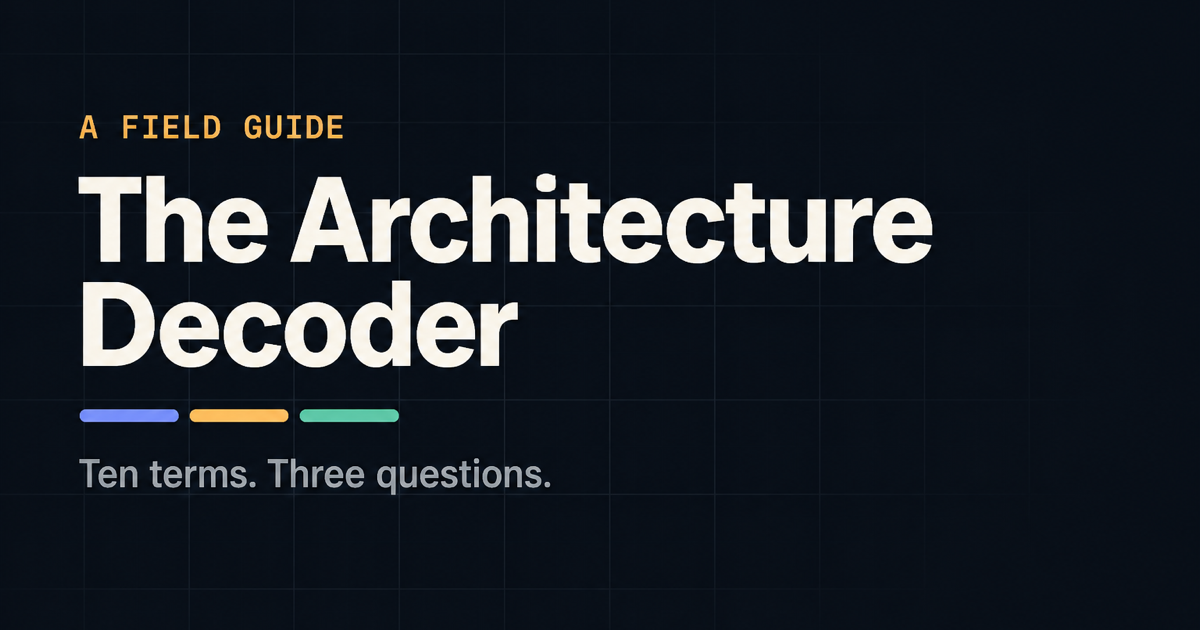
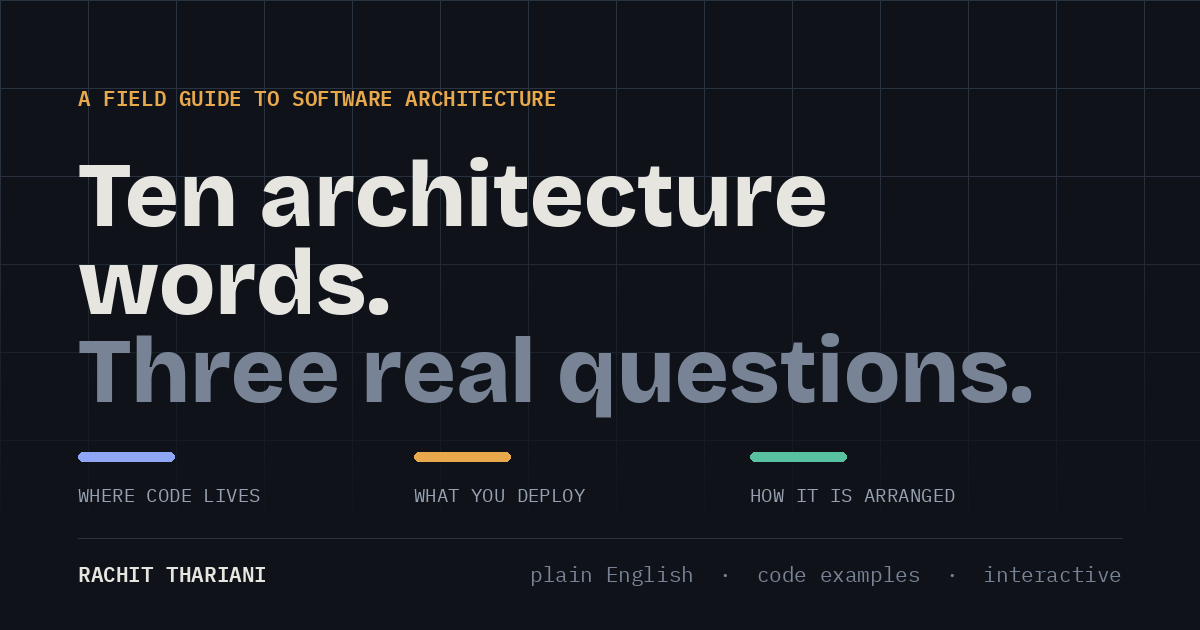
Architecture Decoder: added code examples and copy buttons

diff --git a/index.html b/index.html
@@ -4,12 +4,25 @@
 <meta charset="utf-8">
 <meta name="viewport" content="width=device-width, initial-scale=1">
 <title>The Architecture Decoder: ten software architecture terms, three real questions</title>
-<meta name="description" content="Monorepo, modular monolith, micro-frontends, hexagonal, clean, onion, event-driven, pipeline, layered, distributed. A software architecture field guide that shows these ten terms answer three unrelated questions, with plain-language explanations, three depth levels and worked code examples.">
+<meta name="description" content="Monorepo, modular monolith, micro-frontends, hexagonal, clean, onion, event-driven, pipeline, layered, distributed. A software architecture field guide that shows these ten terms answer three unrelated questions, with plain-language explanations, three depth levels and code examples.">
 <meta name="theme-color" content="#0F1319">
 <meta property="og:type" content="article">
 <meta property="og:title" content="The Architecture Decoder: ten software architecture terms, three real questions">
 <meta property="og:description" content="Software architecture terms are not ten competing options. They answer three unrelated questions. Learn which question each word belongs to and the confusion stops.">
+<meta property="og:image" content="architecture-decoder-card.png">
+<meta property="og:image:width" content="1200">
+<meta property="og:image:height" content="630">
+<meta property="og:image:alt" content="Ten architecture words. Three real questions.">
+<meta name="twitter:image" content="architecture-decoder-card.png">
 <meta name="twitter:card" content="summary_large_image">
+<script type="application/ld+json">
+{"@context":"https://schema.org","@type":"TechArticle",
+ "headline":"The Architecture Decoder: ten software architecture terms, three real questions",
+ "description":"A field guide showing that ten commonly confused software architecture terms answer three unrelated questions.",
+ "author":{"@type":"Person","name":"Rachit Thariani","sameAs":"https://www.linkedin.com/in/rachit-thariani/"},
+ "datePublished":"2026-08-18","dateModified":"2026-08-18",
+ "inLanguage":"en","image":"architecture-decoder-card.png"}
+</script>
 <meta name="twitter:title" content="The Architecture Decoder">
 <meta name="twitter:description" content="Ten software architecture terms. Three real questions. A field guide with ELI5 explanations and three depth levels per concept.">
 <link rel="dns-prefetch" href="https://fonts.gstatic.com">
@@ -280,6 +293,71 @@ footer{padding:46px 0 64px;color:var(--dim2);font-family:var(--mono);font-size:1
 #totop:hover{color:var(--text);border-color:var(--a2);background:color-mix(in srgb,var(--a2) 14%,var(--ink3))}
 #totop svg{width:17px;height:17px;stroke:currentColor;stroke-width:2;fill:none;stroke-linecap:round;stroke-linejoin:round}
 @media(max-width:560px){#totop{right:14px;bottom:14px;width:40px;height:40px}}
+
+/* reading time */
+.rtime{font-family:var(--mono);font-size:10px;letter-spacing:.13em;text-transform:uppercase;color:var(--dim2);margin-left:auto}
+@media(max-width:520px){.rtime{margin-left:0;width:100%}}
+
+/* copy buttons */
+.prewrap{position:relative}
+.prewrap>pre{margin:15px 0}
+.cpy{position:absolute;top:24px;right:9px;z-index:2;background:var(--ink3);border:1px solid var(--line2);
+  color:var(--dim2);font-family:var(--mono);font-size:10px;letter-spacing:.07em;text-transform:uppercase;
+  padding:5px 9px;border-radius:5px;cursor:pointer;opacity:0;transition:.16s}
+.prewrap:hover .cpy,.cpy:focus{opacity:1}
+.cpy:hover{color:var(--text);border-color:var(--dim2)}
+.cpy.done{color:var(--a3);border-color:var(--a3);opacity:1}
+@media(hover:none){.cpy{opacity:1}}
+
+/* mobile navigation */
+#navbtn{display:none;background:var(--ink3);border:1px solid var(--line2);color:var(--dim);
+  width:34px;height:34px;border-radius:8px;cursor:pointer;place-items:center;flex:0 0 auto}
+#navbtn svg{width:16px;height:16px;stroke:currentColor;stroke-width:2;fill:none;stroke-linecap:round}
+#navbtn:hover{color:var(--text)}
+#scrim{position:fixed;inset:0;background:rgba(8,10,14,.72);z-index:90;opacity:0;visibility:hidden;
+  transition:opacity .22s,visibility .22s;backdrop-filter:blur(3px)}
+#scrim.on{opacity:1;visibility:visible}
+#sheet{position:fixed;top:0;left:0;bottom:0;width:min(310px,86vw);background:var(--ink2);z-index:91;
+  border-right:1px solid var(--line);transform:translateX(-100%);transition:transform .26s cubic-bezier(.4,0,.2,1);
+  overflow-y:auto;padding:18px 0 40px}
+#sheet.on{transform:none}
+#sheet .sh-h{display:flex;align-items:center;padding:0 18px 16px;border-bottom:1px solid var(--line);margin-bottom:14px}
+#sheet .sh-h b{font-family:var(--disp);font-weight:800;font-size:15px;letter-spacing:-.02em;color:var(--text)}
+#sheet .sh-x{margin-left:auto;background:none;border:0;color:var(--dim2);font-size:22px;cursor:pointer;line-height:1;padding:0 4px}
+#sheet .sh-x:hover{color:var(--text)}
+#sheet .navgrp{padding-left:18px}
+#sheet a{display:block;font-size:14.5px;color:var(--dim);text-decoration:none;padding:8px 18px;
+  border-left:2px solid var(--line);line-height:1.35}
+#sheet a:active{color:var(--text)}
+@media(max-width:960px){#navbtn{display:grid}}
+
+/* print */
+@media print{
+  body{background:#fff;color:#111;font-size:11pt}
+  body::before,#top,#side,#totop,#scrim,#sheet,.cpy,.demo-toggle,.demo-scen,#prog,#gsearch{display:none!important}
+  .shell{display:block;max-width:100%;padding:0}
+  main{max-width:100%}
+  a{color:#111;text-decoration:underline}
+  .ritem cite,.flink svg{display:none}
+  h1,h2,h3,h4,.slogan,.fname{color:#000}
+  p,li,td,.sub,.dverdict{color:#222}
+  section{border-bottom:1px solid #ccc;padding:18pt 0;page-break-inside:auto}
+  h2,h3{page-break-after:avoid}
+  pre,figure,table,.eli,.qz{page-break-inside:avoid}
+  pre{background:#f5f5f5;border:1px solid #ddd;color:#111}
+  pre b,pre em,pre u{color:#000}
+  pre i,pre s{color:#555}
+  code{background:#f0f0f0;color:#111}
+  .lv-bar{display:none}
+  .lv-pane{display:block!important;border-top:1px solid #ddd}
+  .eli-b{display:block!important}
+  .eli{background:#fafafa;color:#111;box-shadow:none;border:1px solid #ddd}
+  .eli-b p{color:#111}
+  .jg{background:none;border-bottom:1px dotted #888}
+  .recap,.note,.key,.dg,.wiz{border-color:#ccc;background:#fafafa}
+  .dstat b{color:#111}
+  th{background:#f0f0f0;color:#111}
+}
 </style>
 </head>
 <body>
@@ -288,6 +366,7 @@ footer{padding:46px 0 64px;color:var(--dim2);font-family:var(--mono);font-size:1
 
 <header id="top">
   <div class="topin">
+    <button id="navbtn" aria-label="Open contents" aria-expanded="false" aria-controls="sheet"><svg viewBox="0 0 24 24" aria-hidden="true"><path d="M3 6h18M3 12h18M3 18h18"/></svg></button>
     <div class="brand">The Architecture Decoder<span>3 axes / 10 words</span></div>
     <button class="tbtn" id="eliAll" aria-pressed="false">Open all ELI5</button>
     <div class="compass" aria-hidden="true">
@@ -298,6 +377,12 @@ footer{padding:46px 0 64px;color:var(--dim2);font-family:var(--mono);font-size:1
     </div>
   </div>
 </header>
+
+<div id="scrim" hidden></div>
+<nav id="sheet" aria-label="Contents" aria-hidden="true">
+  <div class="sh-h"><b>Contents</b><button class="sh-x" aria-label="Close contents">&times;</button></div>
+  <div id="sheetlinks"></div>
+</nav>
 
 <div class="shell">
 <nav id="side" aria-label="Contents">
@@ -327,11 +412,12 @@ footer{padding:46px 0 64px;color:var(--dim2);font-family:var(--mono);font-size:1
   <h1>Ten architecture words.<em>Three real questions.</em></h1>
   <p class="lede">Monorepo. Modular monolith. Micro-frontends. Hexagonal, Clean and Onion Architecture. Event-driven, pipeline, layered, distributed. Every architecture discussion drags in these ten terms as though you have to pick a side.</p>
   <p class="lede"><strong>You do not. They answer three unrelated questions,</strong> and most of them were never alternatives to each other. Learn which question each word belongs to and the confusion stops for good.</p>
-  <p class="lede">Every concept below comes with a plain-language explanation, three depth levels from beginner to advanced, working code, and an interactive demo of the problem it solves.</p>
+  <p class="lede">Every concept below comes with a plain-language explanation, three depth levels from beginner to advanced, code examples, and an interactive demo of the problem it solves.</p>
 
   <div class="byline">
     <span class="fby">Written by</span>
     <span class="fname">Rachit Thariani</span>
+    <span class="rtime" id="rtime"></span>
     <a class="flink" href="https://www.linkedin.com/in/rachit-thariani/" target="_blank" rel="noopener">
       LinkedIn
       <svg viewBox="0 0 24 24" aria-hidden="true"><path d="M14 4h6v6"/><path d="M20 4L10 14"/><path d="M18 14v5a1 1 0 0 1-1 1H5a1 1 0 0 1-1-1V7a1 1 0 0 1 1-1h5"/></svg>
@@ -2061,6 +2147,97 @@ toTop.addEventListener('click', ()=>{
   window.scrollTo({ top: 0, behavior: reduce ? 'auto' : 'smooth' });
   toTop.blur();
 });
+
+
+/* ============ 11. READING TIME ============ */
+(function(){
+  const c=document.querySelector('main').cloneNode(true);
+  c.querySelectorAll('#gl,footer').forEach(n=>n.remove());
+  // a reader picks one depth level, not all three, so count one pane per group
+  c.querySelectorAll('[data-lv]').forEach(box=>{
+    [].slice.call(box.querySelectorAll('.lv-pane'),1).forEach(function(x){ x.remove(); });
+  });
+  const code=[].slice.call(c.querySelectorAll('pre')).reduce((a,p)=>a+(p.textContent.match(/\n/g)||[]).length,0);
+  c.querySelectorAll('pre').forEach(n=>n.remove());
+  const words=(c.textContent.match(/\S+/g)||[]).length;
+  // 200 wpm for technical prose, plus ~1.2s per line of code
+  const mins=Math.round(words/200 + code*1.2/60);
+  const el=document.getElementById('rtime');
+  if(el) el.textContent = mins+' min read';
+})();
+
+/* ============ 12. COPY BUTTONS ============ */
+function copyWorthy(pre){
+  const t=pre.textContent;
+  const lines=t.split('\n').map(l=>l.trim()).filter(Boolean);
+  if(!lines.length) return false;
+  if(/[\u251c\u2514\u2502]/.test(t)) return false;                              // box-drawing tree
+  const strip=l=>l.replace(/\s*(\u2190|<-|#|\/\/|--).*$/,'').trim();
+  if(lines.filter(l=>/^[\w@.\/-]+\/$/.test(strip(l))).length>=lines.length*0.35) return false;  // folder listing
+  if(lines.filter(l=>/^GET /.test(l)).length>=lines.length*0.4) return false;  // illustrative HTTP output
+  if(/\u2190HTTP\u2192|\[ browser \]/.test(t)) return false;                   // tier diagram
+  if(/^(deploy units?|tier \d)/mi.test(t) && !/[{};]/.test(t)) return false;   // annotated pseudo-output
+  return /[{};=()]|^\s*\$ |^\s*[\w@.\/-]+\/\s+@/m.test(t);                     // real syntax, shell, or owners
+}
+document.querySelectorAll('main pre').forEach(pre=>{
+  if(pre.closest('.prewrap')) return;
+  if(!copyWorthy(pre)) return;
+  const wrap=document.createElement('div');
+  wrap.className='prewrap';
+  pre.parentNode.insertBefore(wrap,pre);
+  wrap.appendChild(pre);
+  const b=document.createElement('button');
+  b.className='cpy'; b.type='button'; b.textContent='Copy';
+  b.setAttribute('aria-label','Copy code to clipboard');
+  b.addEventListener('click', async ()=>{
+    const txt=pre.innerText;
+    try{
+      if(navigator.clipboard && window.isSecureContext){ await navigator.clipboard.writeText(txt); }
+      else{
+        const ta=document.createElement('textarea');
+        ta.value=txt; ta.style.position='fixed'; ta.style.opacity='0';
+        document.body.appendChild(ta); ta.select(); document.execCommand('copy'); ta.remove();
+      }
+      b.textContent='Copied'; b.classList.add('done');
+    }catch(e){ b.textContent='Press Ctrl+C'; }
+    setTimeout(()=>{ b.textContent='Copy'; b.classList.remove('done'); },1900);
+  });
+  wrap.appendChild(b);
+});
+
+/* ============ 13. MOBILE NAV ============ */
+(function(){
+  const btn=document.getElementById('navbtn'), sheet=document.getElementById('sheet'),
+        scrim=document.getElementById('scrim'), box=document.getElementById('sheetlinks'),
+        closeBtn=sheet.querySelector('.sh-x');
+  // build from the desktop nav so there is one source of truth
+  box.innerHTML = document.getElementById('side').innerHTML;
+  let lastFocus=null;
+  function open(){
+    lastFocus=document.activeElement;
+    scrim.hidden=false;
+    requestAnimationFrame(()=>{ sheet.classList.add('on'); scrim.classList.add('on'); });
+    sheet.setAttribute('aria-hidden','false');
+    btn.setAttribute('aria-expanded','true');
+    document.body.style.overflow='hidden';
+    closeBtn.focus();
+  }
+  function close(){
+    sheet.classList.remove('on'); scrim.classList.remove('on');
+    sheet.setAttribute('aria-hidden','true');
+    btn.setAttribute('aria-expanded','false');
+    document.body.style.overflow='';
+    setTimeout(()=>{ scrim.hidden=true; },260);
+    if(lastFocus) lastFocus.focus();
+  }
+  btn.addEventListener('click',open);
+  closeBtn.addEventListener('click',close);
+  scrim.addEventListener('click',close);
+  box.addEventListener('click',e=>{ if(e.target.closest('a')) close(); });
+  document.addEventListener('keydown',e=>{ if(e.key==='Escape' && sheet.classList.contains('on')) close(); });
+  // a resize past the breakpoint should not leave the sheet stuck open
+  window.addEventListener('resize',()=>{ if(window.innerWidth>960 && sheet.classList.contains('on')) close(); });
+})();
 
 /* ============ INIT ============ */
 annotate();
